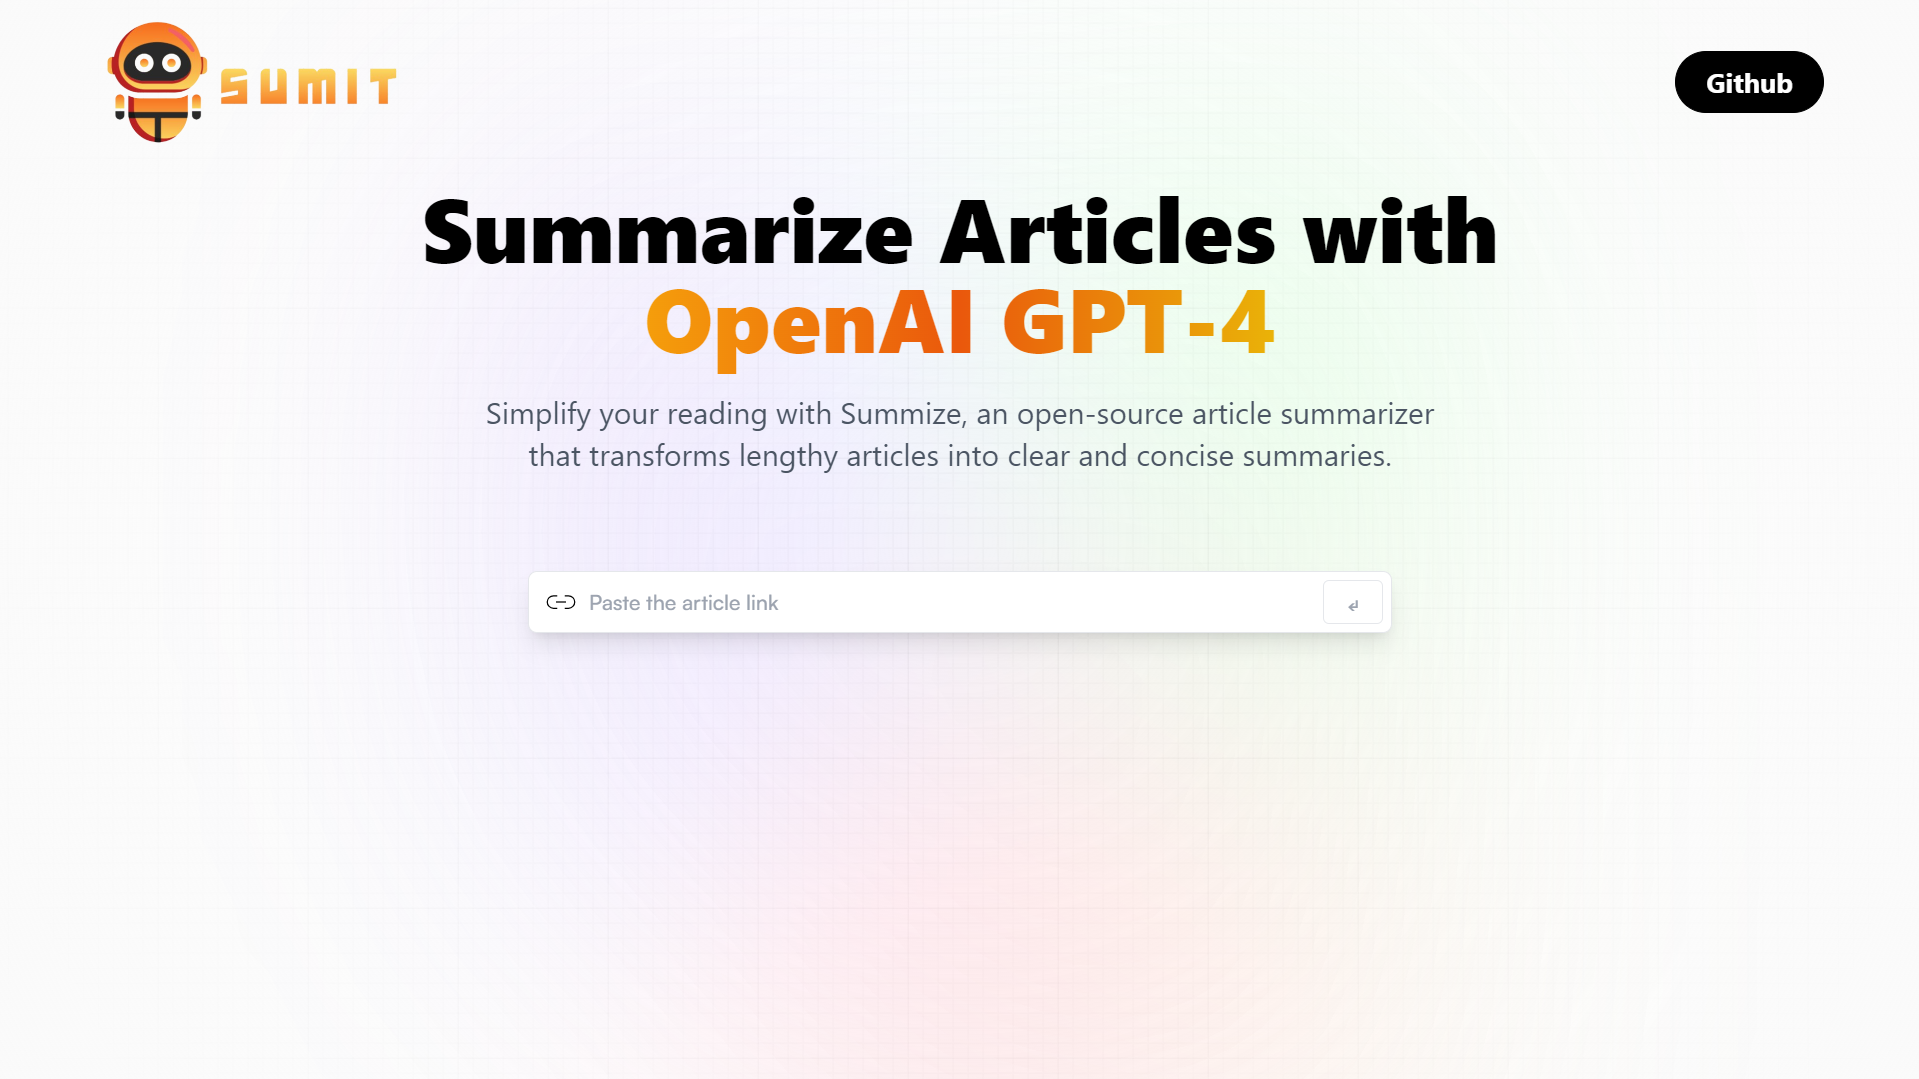
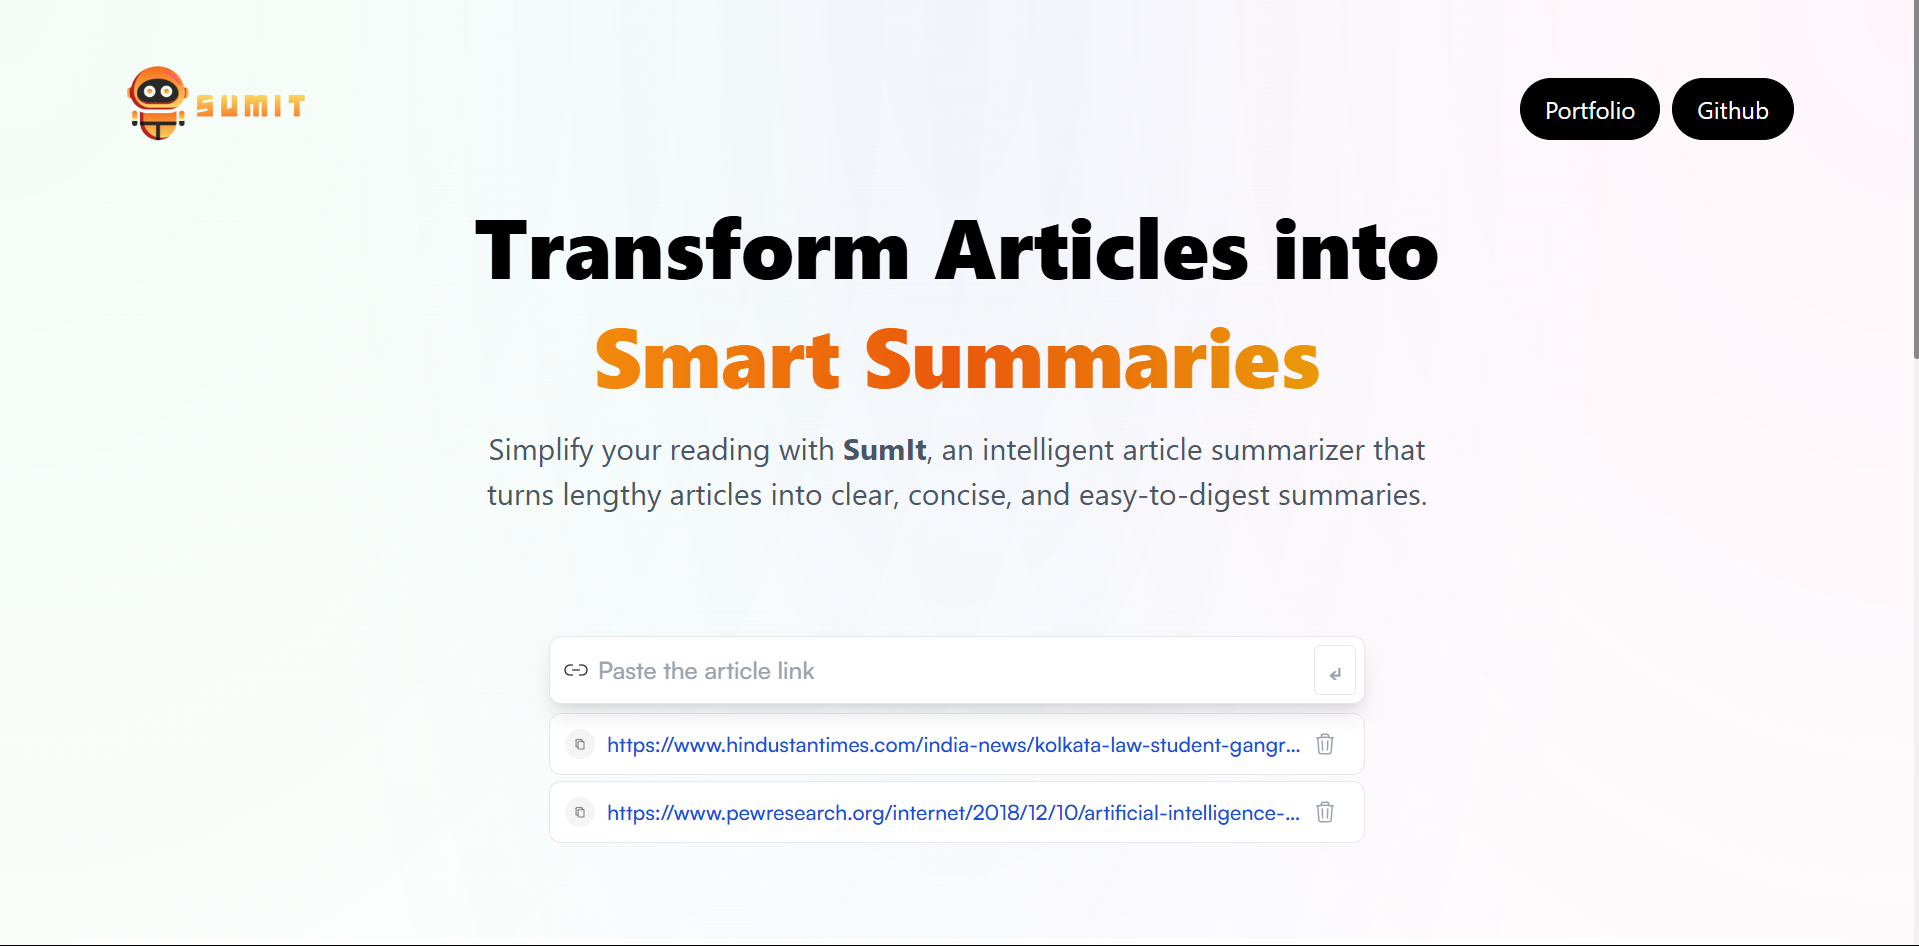
Update project descriptions in constants and modify SUMIT project details for clarity. Replace DevTinder project with Social Bond project information and update image references.

diff --git a/src/constants/index.js b/src/constants/index.js
@@ -171,94 +171,6 @@ const experiences = [
 const worksText = `In addition to my work experience, the following projects showcase my skills through real-world applications. Each project includes a brief description along with links to the code and live demos. They highlight my ability to solve complex problems, adapt to various technologies, and deliver effective, user-focused solutions.`;
 
 const projects = [
-  // {
-  //   name: "DevTinder",
-  //   description:
-  //     "A robust full-stack developer matching platform featuring real-time chat, GitHub profile integration, intelligent matching algorithms, premium subscription tiers and many more",
-  //   tags: [
-  //     {
-  //       name: "mern-stack",
-  //       color: "pink-text-gradient",
-  //     },
-  //     {
-  //       name: "react.js",
-  //       color: "blue-text-gradient",
-  //     },
-  //     {
-  //       name: "typescript",
-  //       color: "green-text-gradient",
-  //     },
-  //     {
-  //       name: "tailwind",
-  //       color: "pink-text-gradient",
-  //     },
-  //     {
-  //       name: "redux",
-  //       color: "orange-text-gradient",
-  //     },
-  //     {
-  //       name: "node.js",
-  //       color: "pink-text-gradient",
-  //     },
-  //     {
-  //       name: "express.js",
-  //       color: "blue-text-gradient",
-  //     },
-  //     {
-  //       name: "mongodb",
-  //       color: "green-text-gradient",
-  //     },
-  //     {
-  //       name: "mongoose",
-  //       color: "blue-text-gradient",
-  //     },
-  //     {
-  //       name: "socket.io",
-  //       color: "orange-text-gradient",
-  //     },
-  //     {
-  //       name: "axios",
-  //       color: "pink-text-gradient",
-  //     },
-  //     {
-  //       name: "jwt",
-  //       color: "green-text-gradient",
-  //     },
-  //   ],
-  //   image: devTinder,
-  //   source_code_link: "https://github.com/AyushAgarwal15/DevTinder-Frontend",
-  //   live_link: "https://devtinder-ayush.vercel.app/login",
-  // },
-  {
-    name: "Social Bond",
-    description:
-      "A seamless social platform connecting users through engaging content and top-tier features. Key Features - Secure authentication, top creator showcases, like/save options, detailed posts, & user-friendly profile management.",
-    tags: [
-      {
-        name: "react",
-        color: "blue-text-gradient",
-      },
-      {
-        name: "typescript",
-        color: "green-text-gradient",
-      },
-      {
-        name: "tailwind",
-        color: "pink-text-gradient",
-      },
-      {
-        name: "react-query",
-        color: "orange-text-gradient",
-      },
-      {
-        name: "appwrite",
-        color: "pink-text-gradient",
-      },
-    ],
-    image: socialBond,
-    source_code_link: "https://github.com/AyushAgarwal15/social-bond",
-    live_link: "https://social-bond.vercel.app/sign-in",
-  },
   {
     name: "Hirix",
     description:
@@ -292,7 +204,7 @@ const projects = [
   {
     name: "SUMIT",
     description:
-      "An article summarizer that converts long articles into clear and brief summaries. Key Features - Article Summarization, URL History, Instant Historical Summaries.",
+      "An AI-powered article summarizer that transforms lengthy content into clear, concise summaries. Key features include real-time summarization, URL history, instant access to past summaries, one-click sharing, and more.",
     tags: [
       {
         name: "react",
